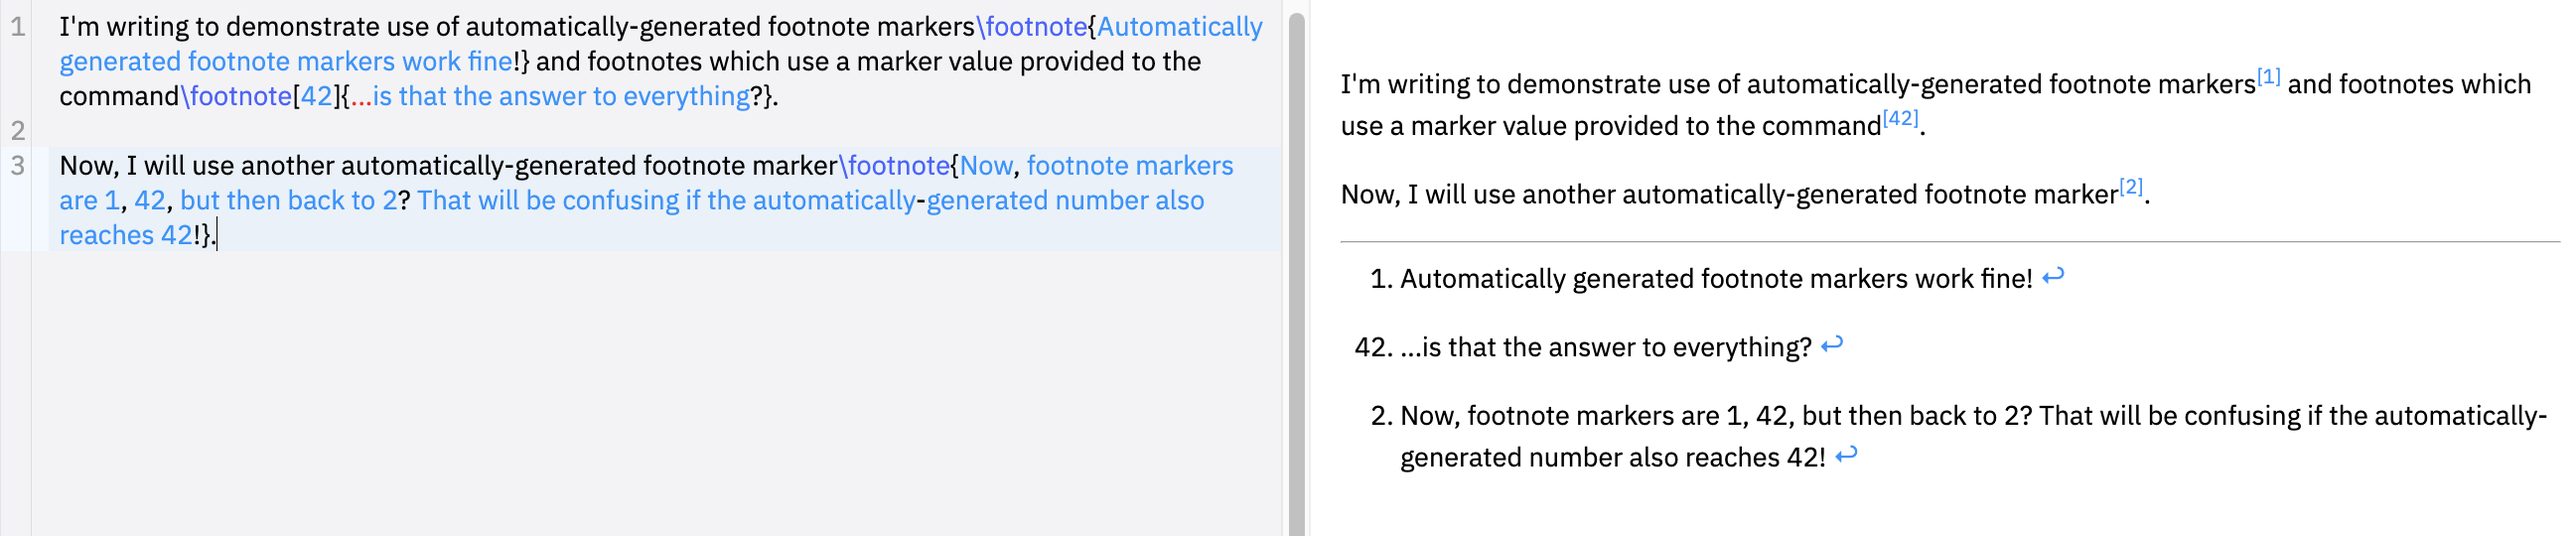
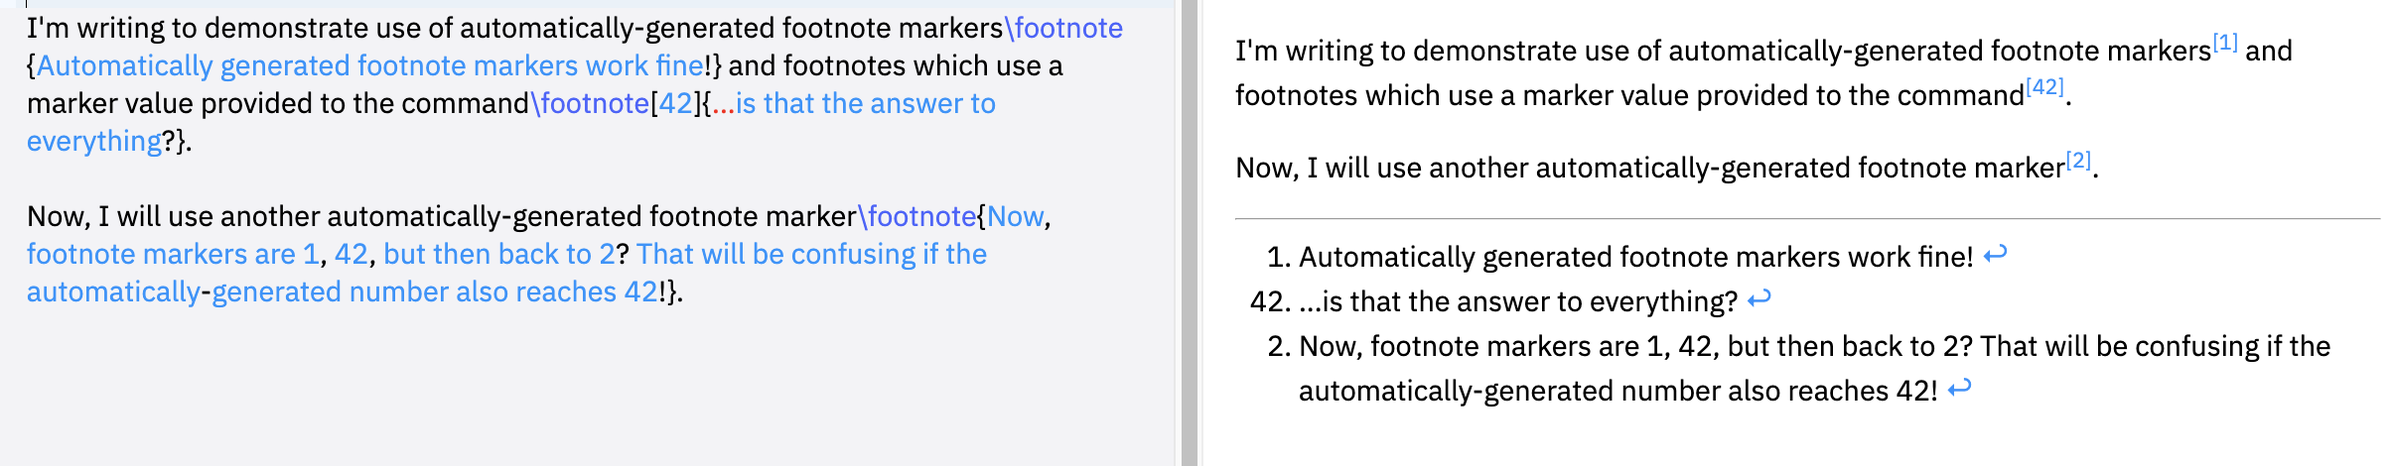
Changed README for latex footnotes

Changed region(s): [[0.0, 0.0, 0.9967, 1.0], [0.0, 0.5957, 0.2803, 0.6553]]

diff --git a/README.md b/README.md
@@ -85,24 +85,12 @@ proceed from there and at some point you will arrive to a contradiction.
 - [Latex footnotes](doc/latex-footnotes.md)
 
 ```text
-Footnote marker without text. Auto increment counter to 1 \footnotemark{} should be 1.
+I'm writing to demonstrate use of automatically-generated footnote markers\footnote{Automatically generated footnote markers work fine!} and footnotes which use a marker value provided to the command\footnote[42]{...is that the answer to everything?}. 
 
-Footnote marker with text. Auto increment counter to 2 \footnotemark{} be 2. \footnotetext{text should be 2}
-
-Auto increment counter to 3 \footnote{text  should be 3}
-
-Auto increment counter to 4 \footnote{text  should be 4}
-
-Footnote marker without text. Auto increment counter to 5 \footnotemark{} should be 5.
-
-Footnote marker with text. Auto increment counter to 6 \footnotemark{} should be 6. \footnotetext{text should be 6}
-
-Auto increment counter to 7 \footnote{text  should be 7}
-
-Auto increment counter to 8 \footnote{text  should be 8}
+Now, I will use another automatically-generated footnote marker\footnote{Now, footnote markers are 1, 42, but then back to 2? That will be confusing if the automatically-generated number also reaches 42!}.
 ```
 
-![](doc/images/latex-footnotes/latex-footnotes_01.png)
+![](doc/images/latex-footnotes/latex-footnotes_02.png)
 
 - [Latex underline](doc/latex-underline.md)
 

diff --git a/doc/latex-footnotes.md b/doc/latex-footnotes.md
@@ -45,6 +45,8 @@ Both commands take an optional argument enclosed in square brackets (`[...]`):
 
 The `\footnotemark` and `\footnotetext` commands are often used together to construct footnotes in tables, or other locations, where the standard `\footnote` command does not work, or is not the best/optimal solution.
 
+By default, `\footnotetext{}` will have the number hidden.
+
 ```tex
 I'm writing to test the `\footnotemark` and `\footnotetext` commands. 
 You can insert a footnote marker using the `\footnotemark`\footnotemark{}
@@ -56,5 +58,17 @@ footnote\footnotetext{Specifically, I'd write comments in this one.}.
 ```
 
 This example produces the following output:
+
+![](images/latex-footnotes/latex-footnotes_04.png)
+
+To display numbering for `\footnotetext{}` set the parameter:
+
+```js
+  footnotes: {
+    footnotetext: {
+      autonumbers: true
+    },
+  }
+```
 
 ![](images/latex-footnotes/latex-footnotes_03.png)
